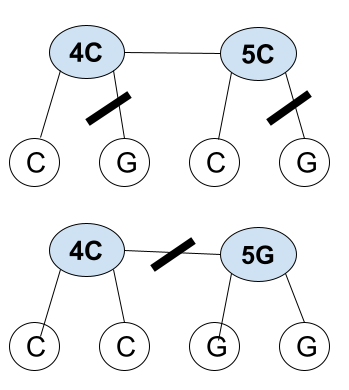
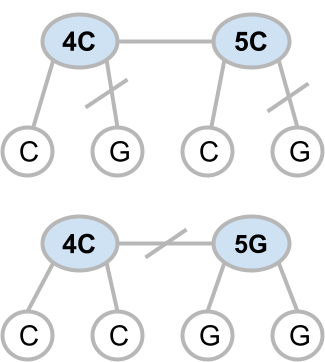
documents updated with Large Parsimony test cases.

Changed region(s): [[0.0, 0.0304, 1.0, 0.5166], [0.0, 0.547, 1.0, 1.0], [0.9231, 0.2127, 0.9538, 0.2431]]

diff --git a/docs/Parsimony.md b/docs/Parsimony.md
@@ -1,11 +1,25 @@
 # Parsimony
 
+Notes on solving the Large Parsimony problem with 
+nearest neighbor interchange.  Here are two simple
+test examples.  The first shows a tree with four leaf nodes and 
+two internal nodes.  The minimal parsimony solution consists 
+of swapping two leaf nodes to reduce the overall 
+hamming distance.
+<br>
+
 ![Placeholder](assets/LargeParsimonyNNI.png){ align=left }
 
+<br>
 Very simple test example - solution is to swap one C with one G, 
 resulting in a tree with a minimum parsimony hamming distance of 1.
+<br>
 
 ![Placeholder](assets/LargeParsimonyNNItest2.png){ align=left }
 
+<br>
 Another test example - this time the solution is to swap two internal
-nodes.
+nodes, as shown below.
+<br>
+
+![Placeholder](assets/LargeParsimonyNNItest2solution.png){ align=left }
